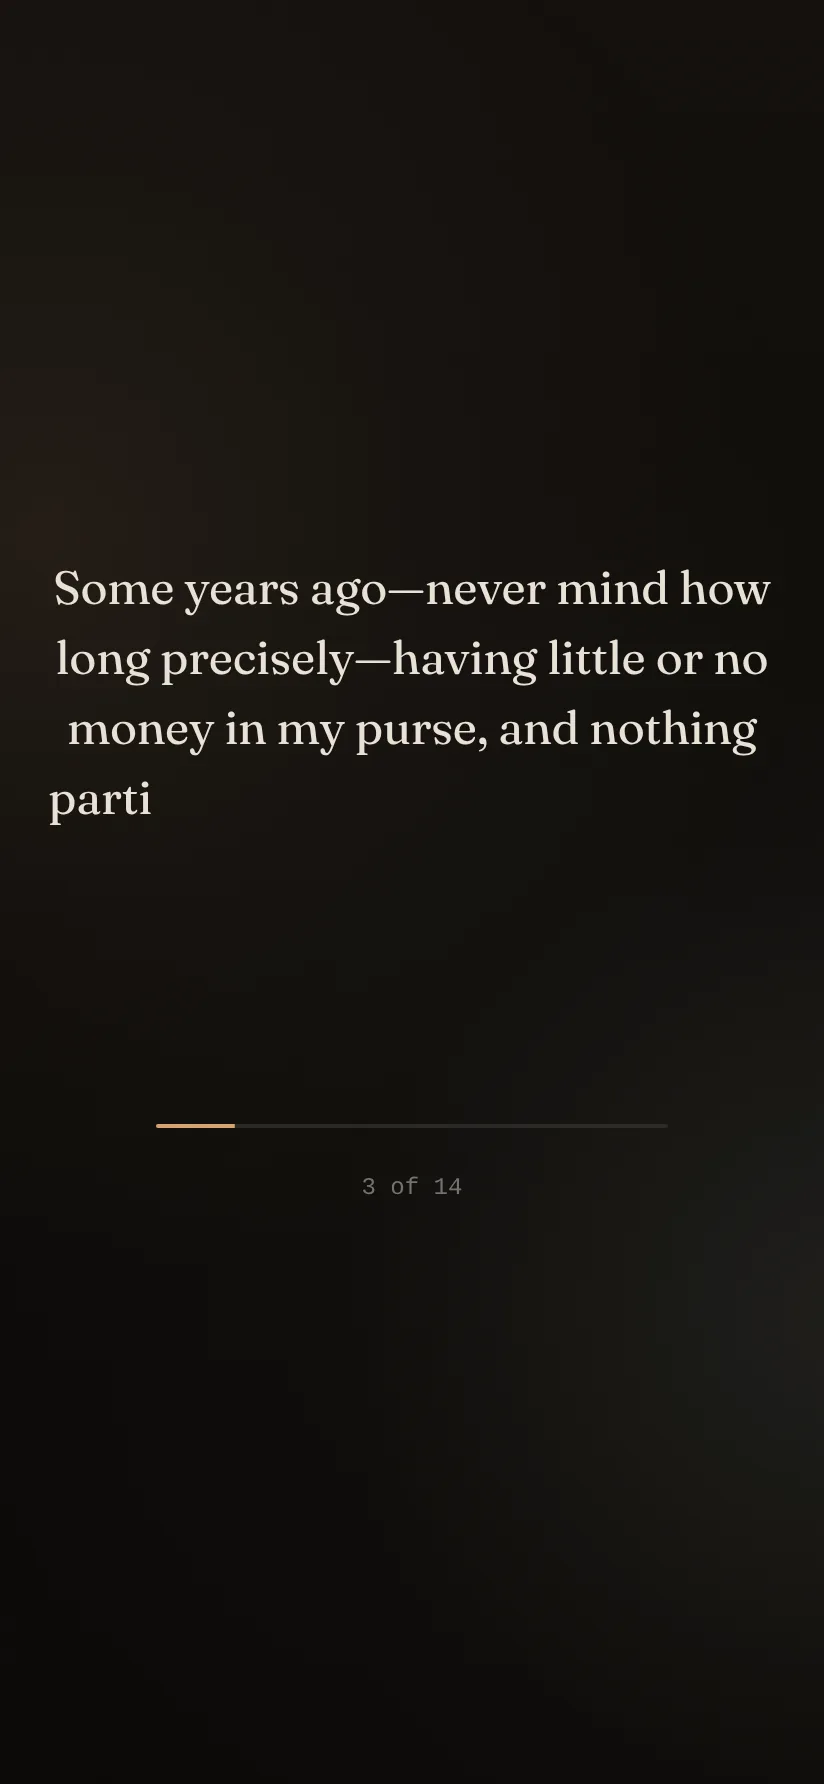
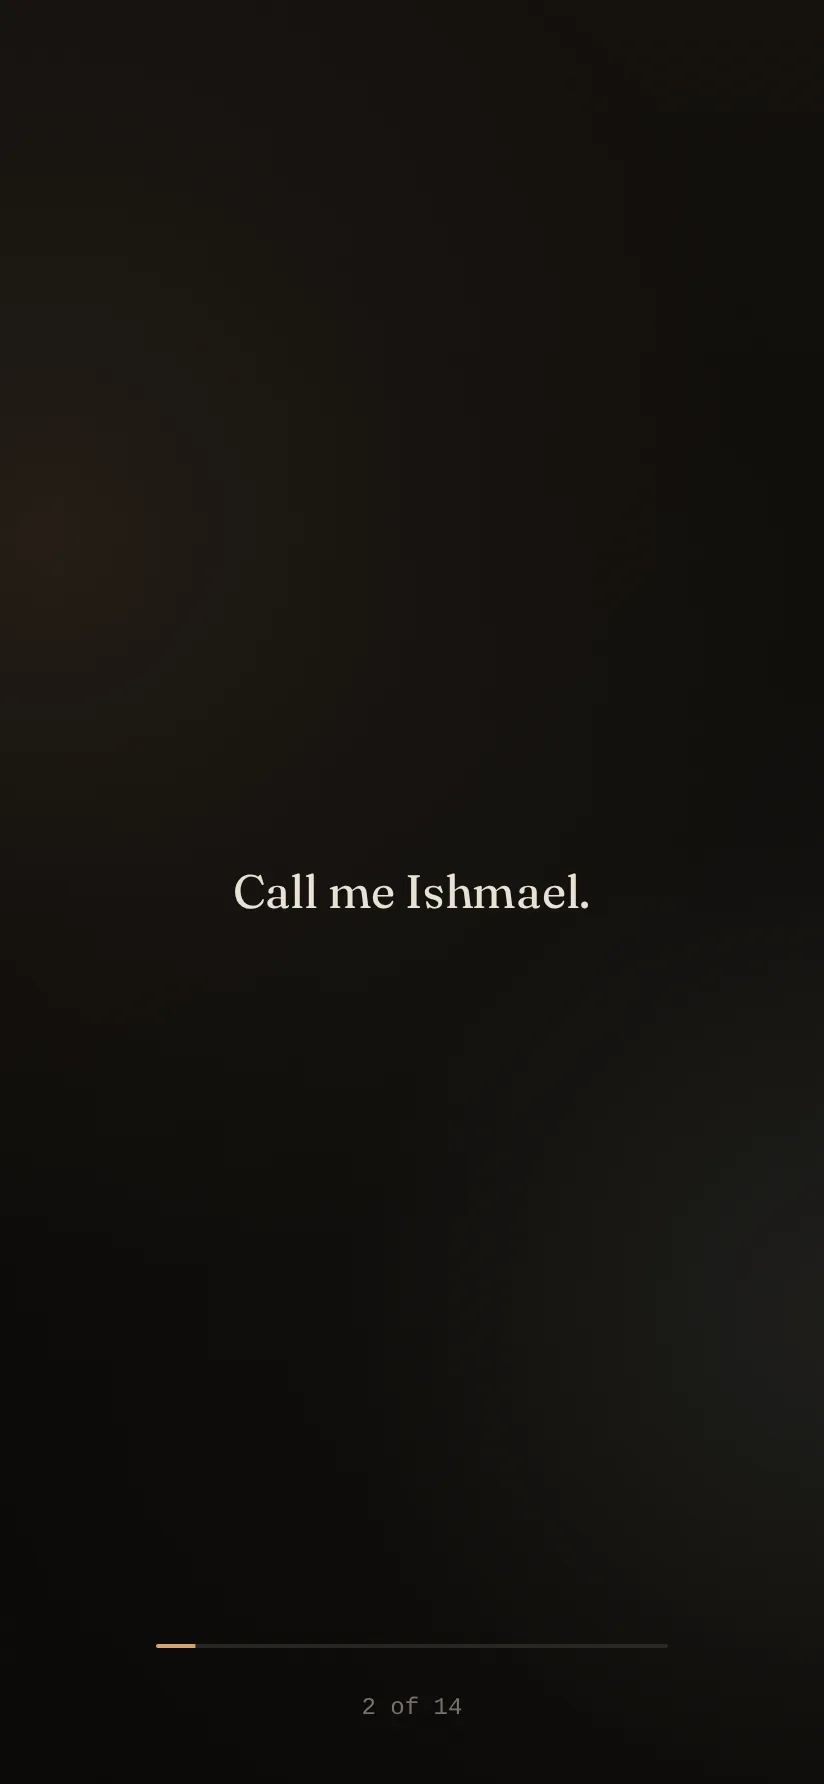
README: new screenshots of the reader, Flow, the reading panel and the library
The old shots showed the Type and theme sheet, which the reading panel
replaced. Retaken at 412x892 @2x from public-domain openings.

Claude-Session: https://claude.ai/code/session_0159B3uWqiU4Fu8PwjKNYgzR

Changed region(s): [[0.0607, 0.3083, 0.5765, 0.4624], [0.5158, 0.3083, 0.9405, 0.4316], [0.2731, 0.4933, 0.6978, 0.5241]]

diff --git a/README.md b/README.md
@@ -14,8 +14,8 @@ Rosetta is a quiet library and reader for EPUB, PDF, Word, OpenDocument, RTF, FB
 
 <p align="center">
   <img src="docs/screenshots/reader.webp" width="200" alt="Reading Moby-Dick: the first chapter in a serif typeface with the reader bar above">
-  <img src="docs/screenshots/flow.webp" width="200" alt="Flow mode: one sentence at a time in the middle of the screen">
-  <img src="docs/screenshots/type-and-theme.webp" width="200" alt="The Type and theme sheet: theme, reading mode, typeface, size, spacing and column">
+  <img src="docs/screenshots/flow.webp" width="200" alt="Flow mode: Call me Ishmael, one sentence at a time in the middle of the screen">
+  <img src="docs/screenshots/reading-panel.webp" width="200" alt="The reading panel over the page, with Text, Page, Light and Listen tabs">
   <img src="docs/screenshots/library-dawn.webp" width="200" alt="The library in the light Dawn theme, with Continue reading and document cards">
 </p>
 
